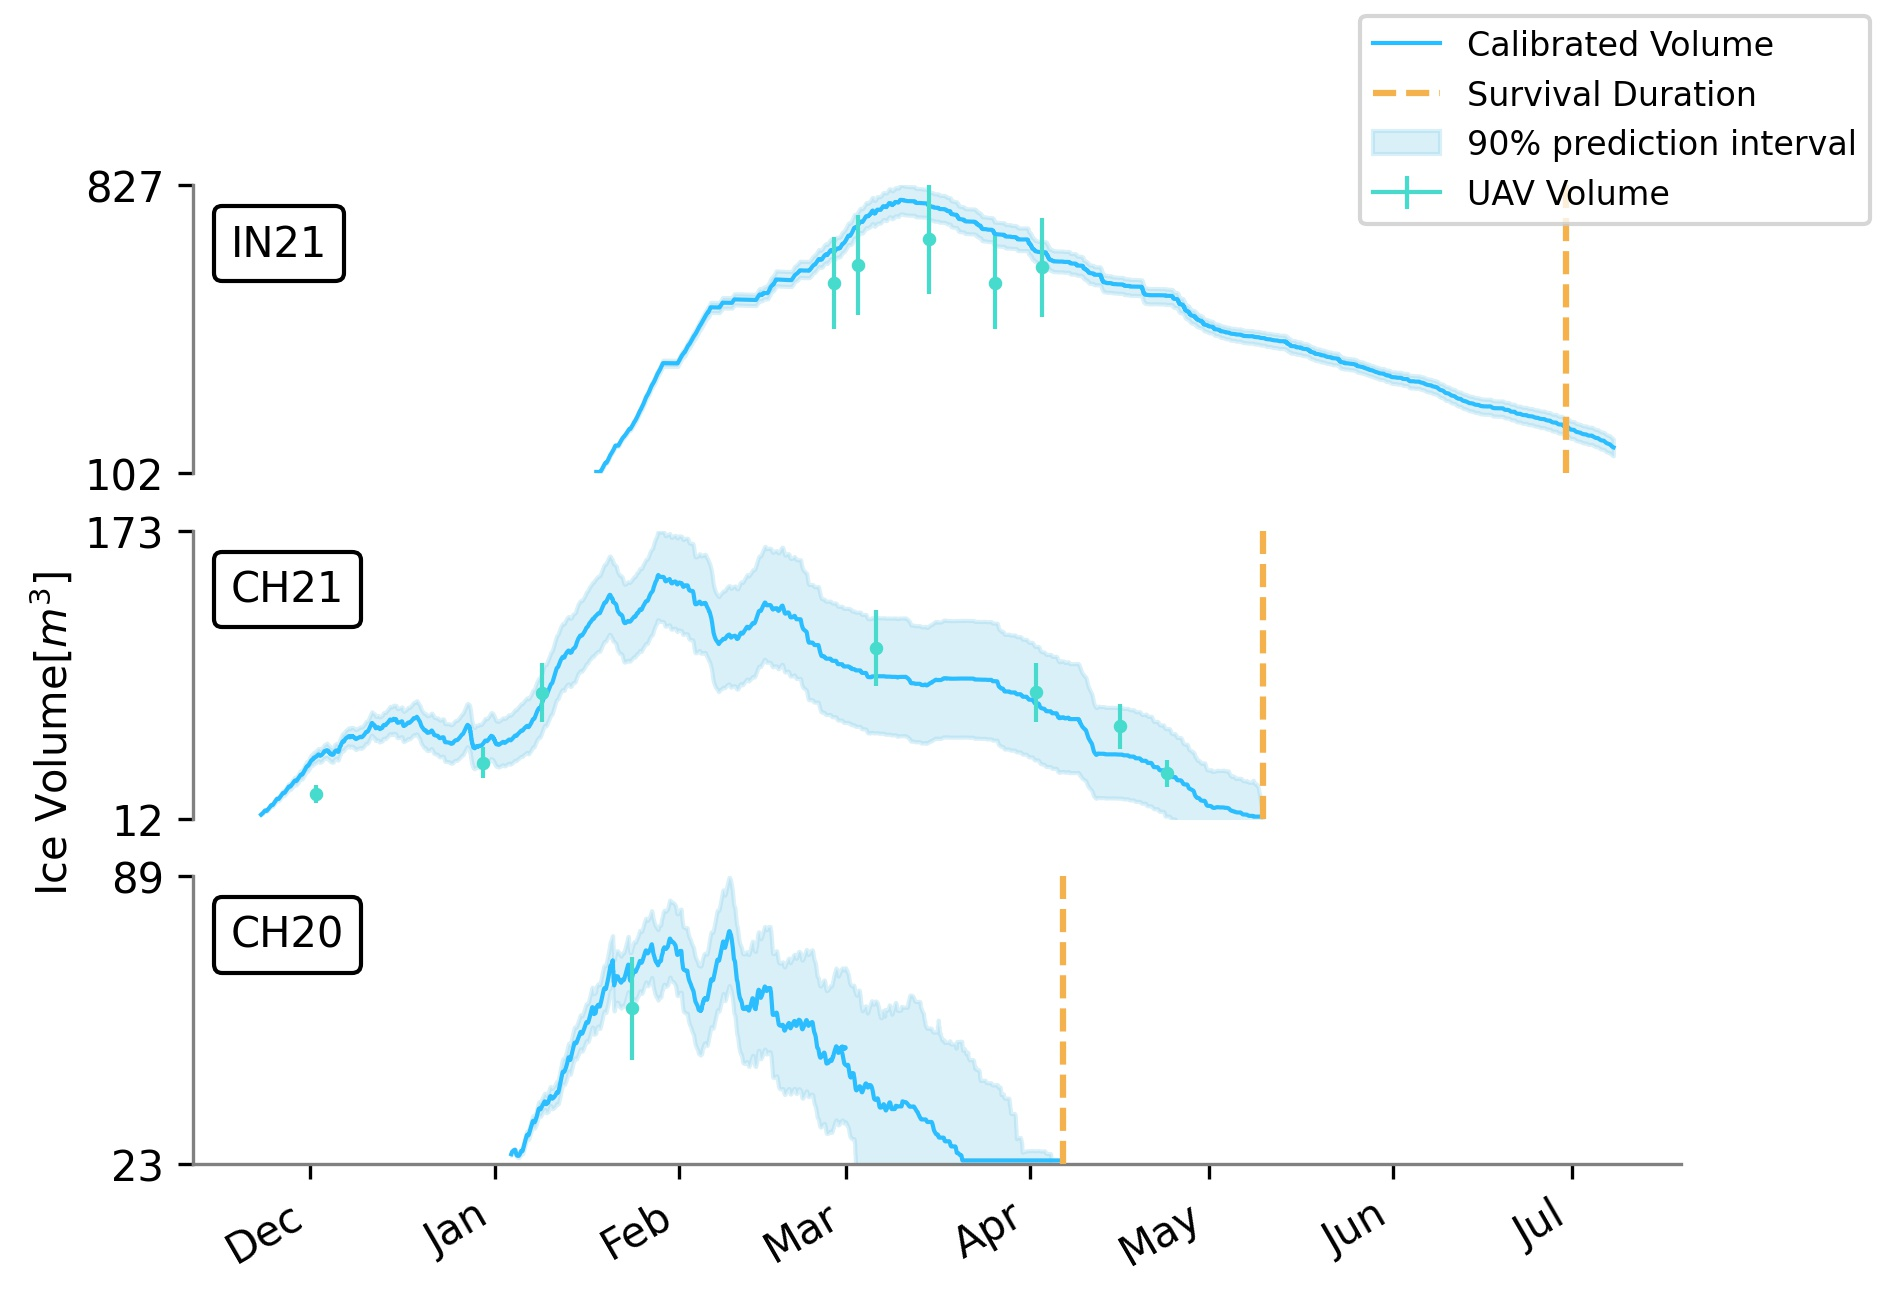
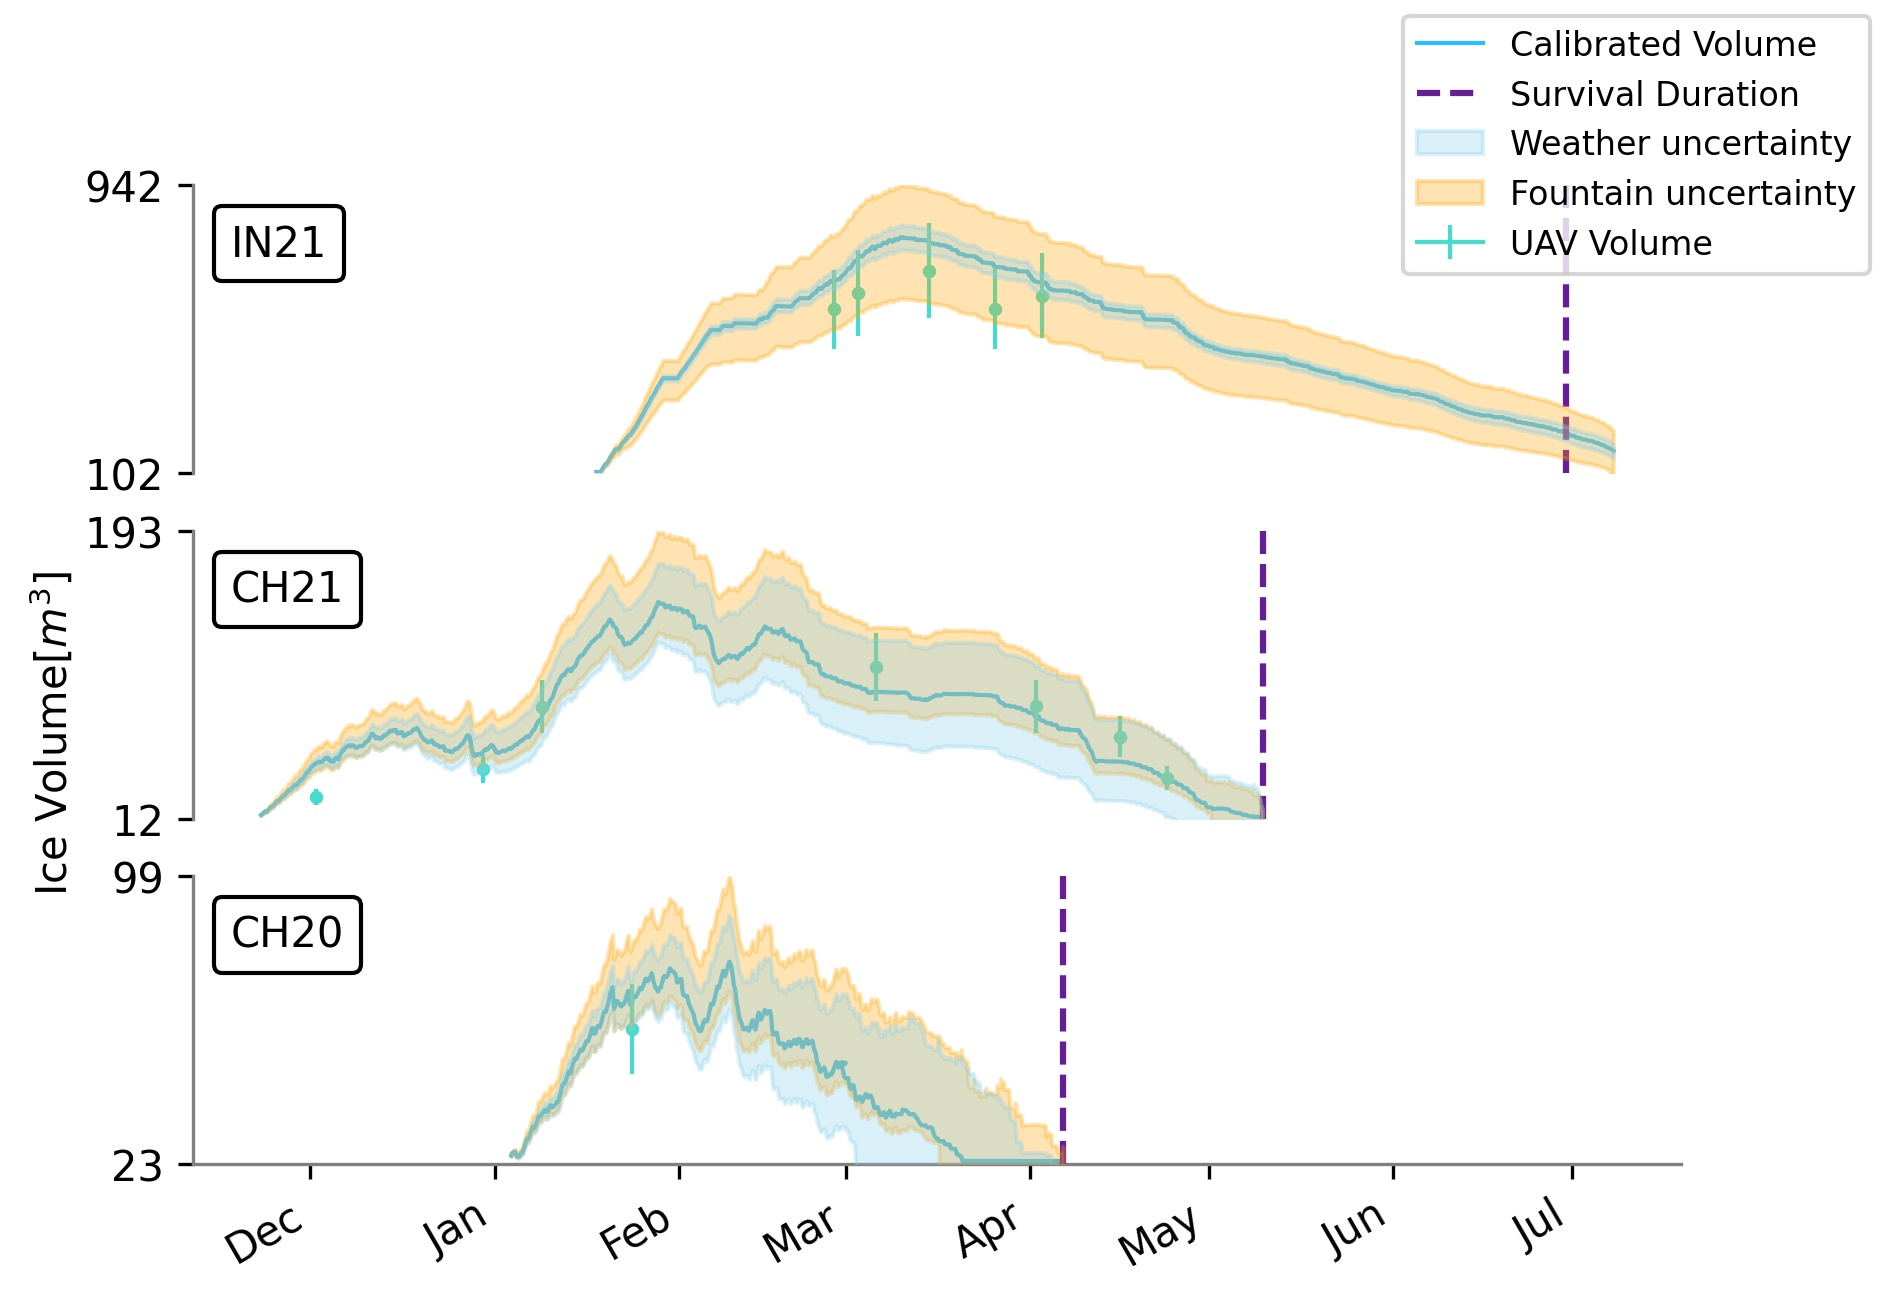
fountain params uq

diff --git a/src/utils/uq_plot_full.py b/src/utils/uq_plot_full.py
@@ -60,9 +60,8 @@ if __name__ == "__main__":
         data = un.Data()
         # filename1 = FOLDER['sim']+ "SE_full.h5"
         filename1 = FOLDER['sim']+ "full.h5"
-        # filename1 = FOLDER['sim']+ "input.h5"
+        filename2 = FOLDER['sim']+ "fountain.h5"
         # filename1 = FOLDER['sim']+ "efficiency.h5"
-        data.load(filename1)
         # print(data)
 
         if location == 'schwarzsee19':
@@ -89,10 +88,17 @@ if __name__ == "__main__":
             freq="1H",
         )
 
-        data = data[location]
-        data['percentile_5'] = data['percentile_5'][1:len(days2)+1]
-        data['percentile_95'] = data['percentile_95'][1:len(days2)+1]
-        data["When"] = days2
+        data.load(filename1)
+        data1 = data[location]
+        data1['percentile_5'] = data1['percentile_5'][1:len(days2)+1]
+        data1['percentile_95'] = data1['percentile_95'][1:len(days2)+1]
+        data1["When"] = days2
+
+        data.load(filename2)
+        data2 = data[location]
+        data2['percentile_5'] = data2['percentile_5'][1:len(days2)+1]
+        data2['percentile_95'] = data2['percentile_95'][1:len(days2)+1]
+        data2["When"] = days2
 
         df = icestupa.df[["When","iceV"]]
         df_c = pd.read_hdf(FOLDER["input"] + "model_input.h5", "df_c")
@@ -140,18 +146,28 @@ if __name__ == "__main__":
             zorder=1,
         )
         ax[i].fill_between(
-            data["When"],
-            data.percentile_5,
-            data.percentile_95,
+            data1["When"],
+            data1.percentile_5,
+            data1.percentile_95,
             color="skyblue",
             alpha=0.3,
-            label="90% prediction interval",
+            label="Weather uncertainty",
+            zorder = 6,
+        )
+        ax[i].fill_between(
+            data2["When"],
+            data2.percentile_5,
+            data2.percentile_95,
+            color="orange",
+            alpha=0.3,
+            label="Fountain uncertainty",
+            zorder = 5,
         )
         ax[i].errorbar(x2, y2, yerr=df_c.DroneVError, color=CB91_Green, lw=1,  label="UAV Volume", zorder=3)
         ax[i].scatter(x2, y2, s = 5, color=CB91_Green, zorder=2)
         # ax[i].scatter(SITE['end_date'], round(icestupa.V_dome,0) + 1,  color=CB91_Amber,marker = "x", zorder=2)
-        ax[i].axvline(SITE['end_date'],  color=CB91_Amber,linestyle = '--', zorder=4, label="Survival Duration",)
-        ax[i].set_ylim(round(icestupa.V_dome,0) - 1, round(data.percentile_95.max(),0))
+        ax[i].axvline(SITE['end_date'],  color=CB91_Violet,linestyle = '--', zorder=4, label="Survival Duration",)
+        ax[i].set_ylim(round(icestupa.V_dome,0) - 1, round(data2.percentile_95.max(),0))
         v = get_parameter_metadata(location)
         at = AnchoredText( v['shortname'], prop=dict(size=10), frameon=True, loc="upper left")
         at.patch.set_boxstyle("round,pad=0.,rounding_size=0.2")
